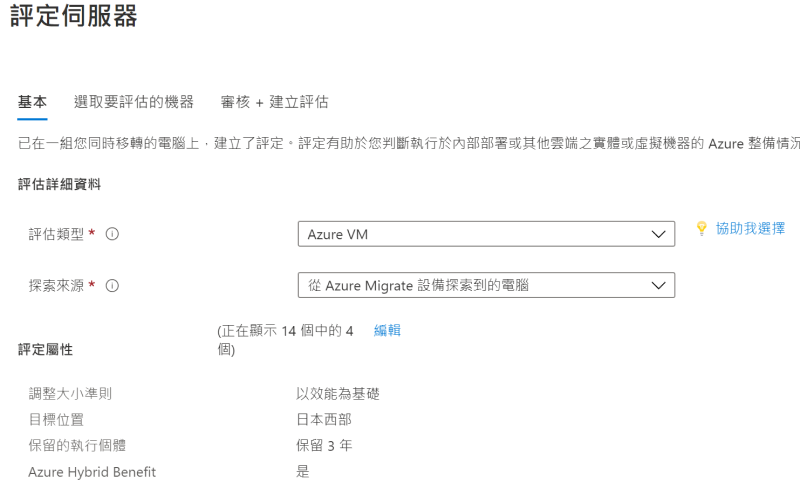
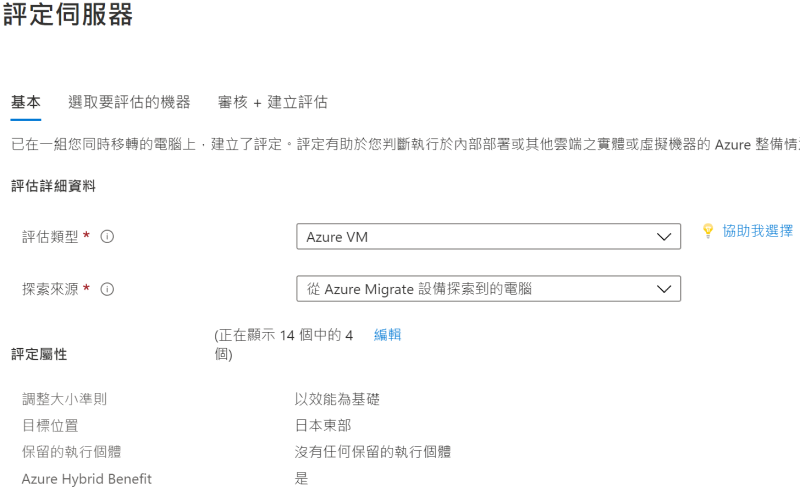
update

diff --git a/hyper-v/Lab3.md b/hyper-v/Lab3.md
@@ -3,7 +3,7 @@
 - 設定評估<br>
 - 在伺服器項目中，選擇「評定」<br>
 ![GITHUB](https://github.com/BrianHsing/Azure-Migrate/blob/master/hyper-v/image/assessmentClick.PNG "assessmentClick")<br>
-- 評定基本設定。點選「檢視全部」，更改目標位置為「日本東部」，保留的執行個體更改為「沒有任何保留的執行個體」，全選所有虛擬機器規格<br>
+- 評定基本設定。點選「編輯」，更改目標位置為「日本東部」，保留的執行個體更改為「沒有任何保留的執行個體」，全選所有虛擬機器規格<br>
 ![GITHUB](https://github.com/BrianHsing/Azure-Migrate/blob/master/hyper-v/image/assessmentBasic1.PNG "assessmentBasic")<br>
 - 輸入評定名稱「ServerAssessment」，輸入群組名稱「ServerGroup」，勾選 linux-ap、Win2k16-AP<br>
 ![GITHUB](https://github.com/BrianHsing/Azure-Migrate/blob/master/hyper-v/image/assessmentSelect1.PNG "assessmentSelect")<br>
